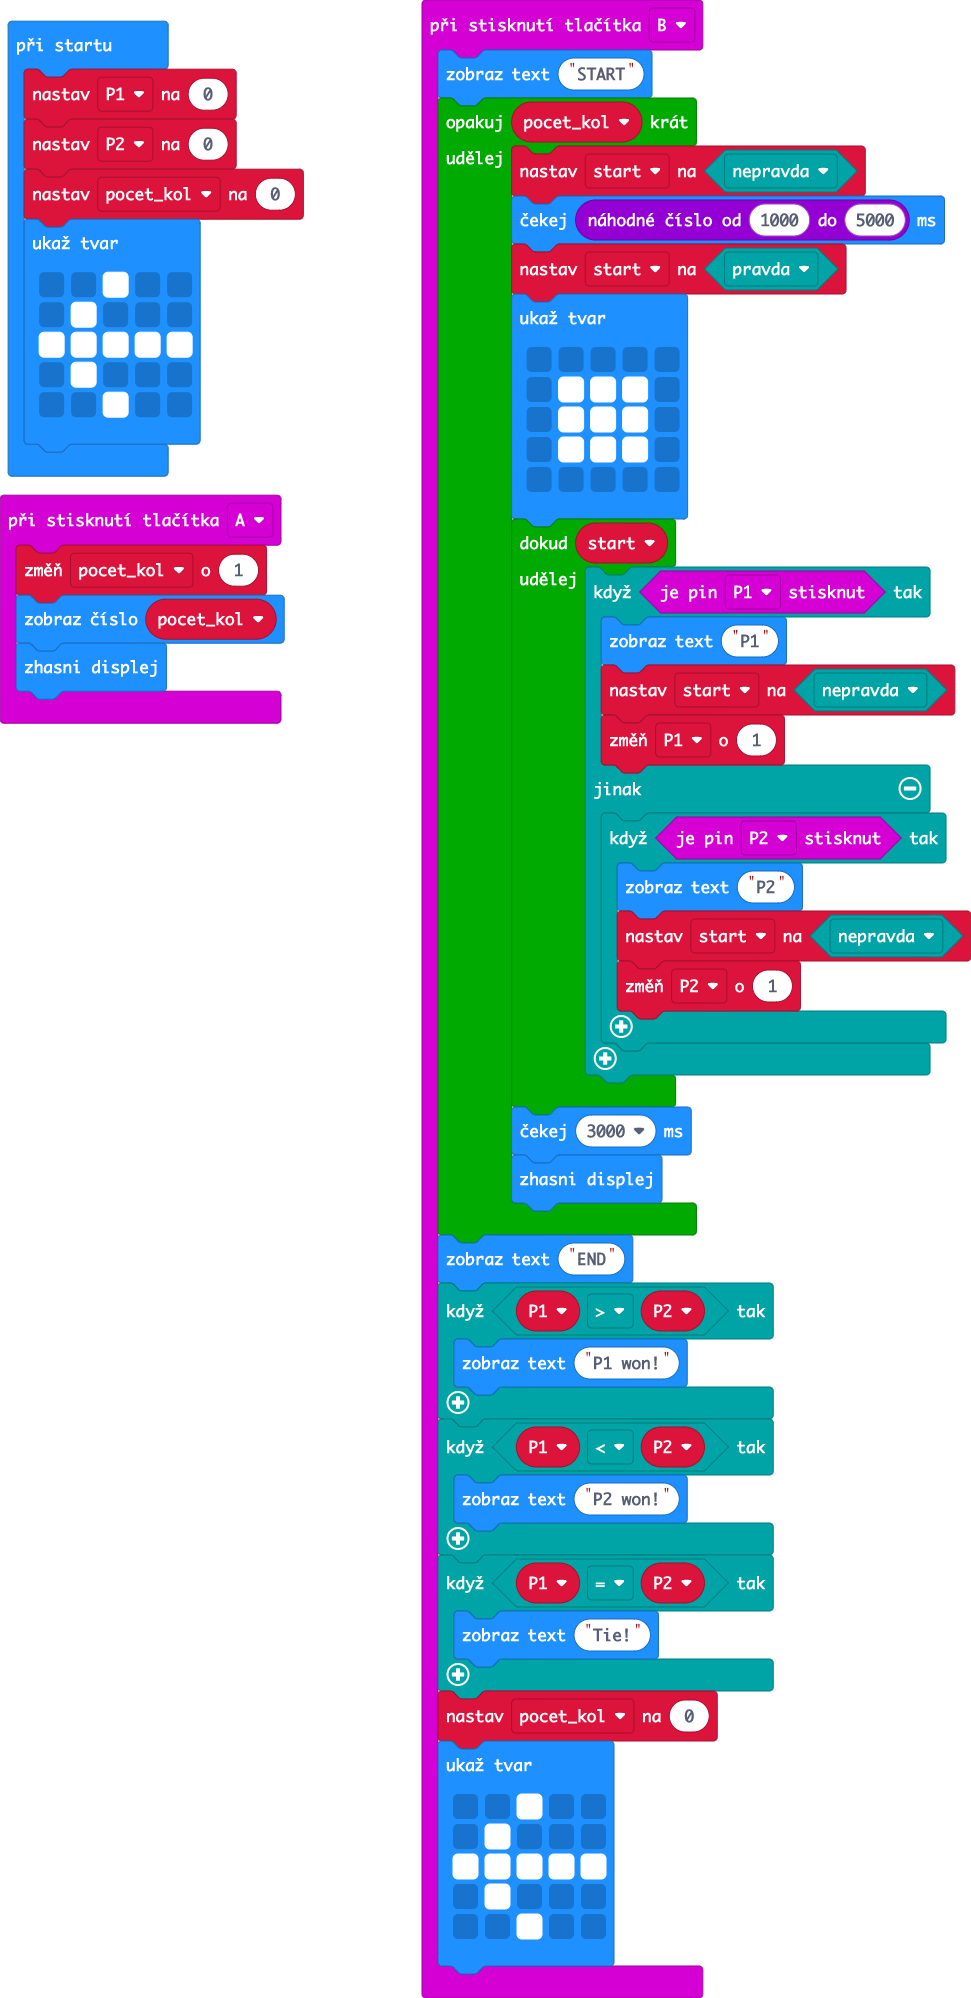
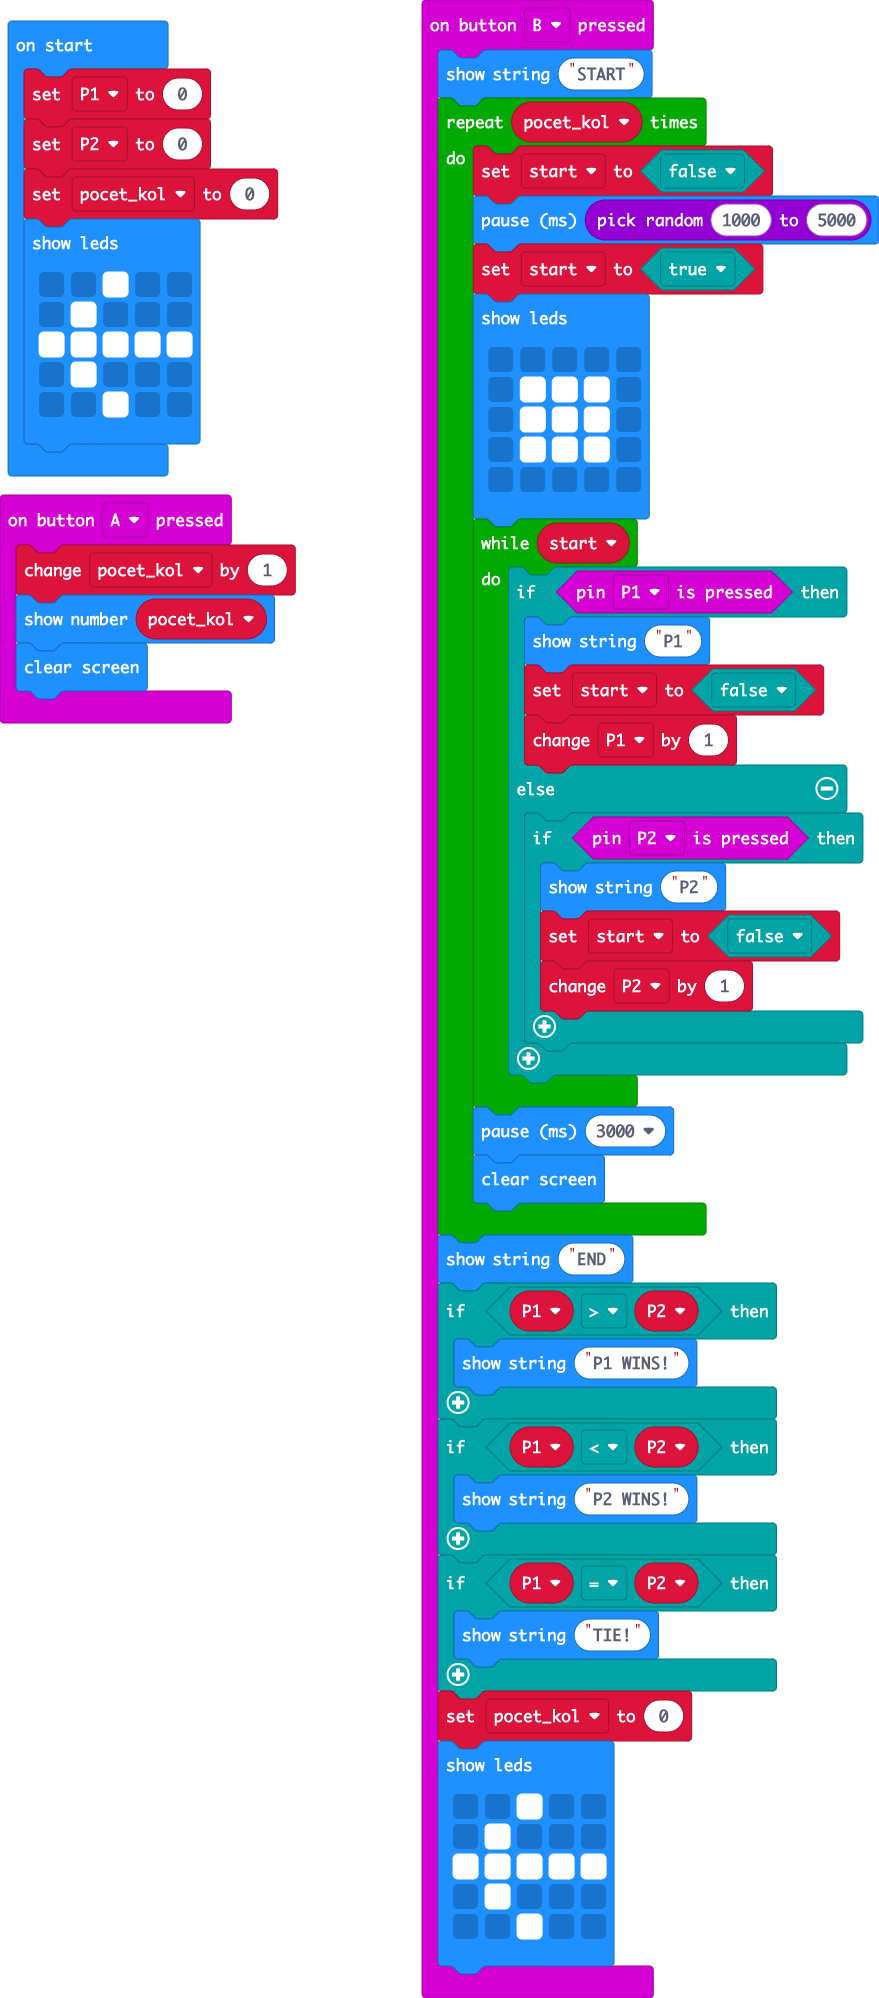
Update main.blocks, main.ts

Changed region(s): [[0.43, 0.0, 1.0, 1.0], [0.0, 0.0, 0.3379, 0.3724]]

diff --git a/main.ts b/main.ts
@@ -34,13 +34,13 @@ input.onButtonPressed(Button.B, function () {
     }
     basic.showString("END")
     if (P1 > P2) {
-        basic.showString("P1 won!")
+        basic.showString("P1 WINS!")
     }
     if (P1 < P2) {
-        basic.showString("P2 won!")
+        basic.showString("P2 WINS!")
     }
     if (P1 == P2) {
-        basic.showString("Tie!")
+        basic.showString("TIE!")
     }
     pocet_kol = 0
     basic.showLeds(`
